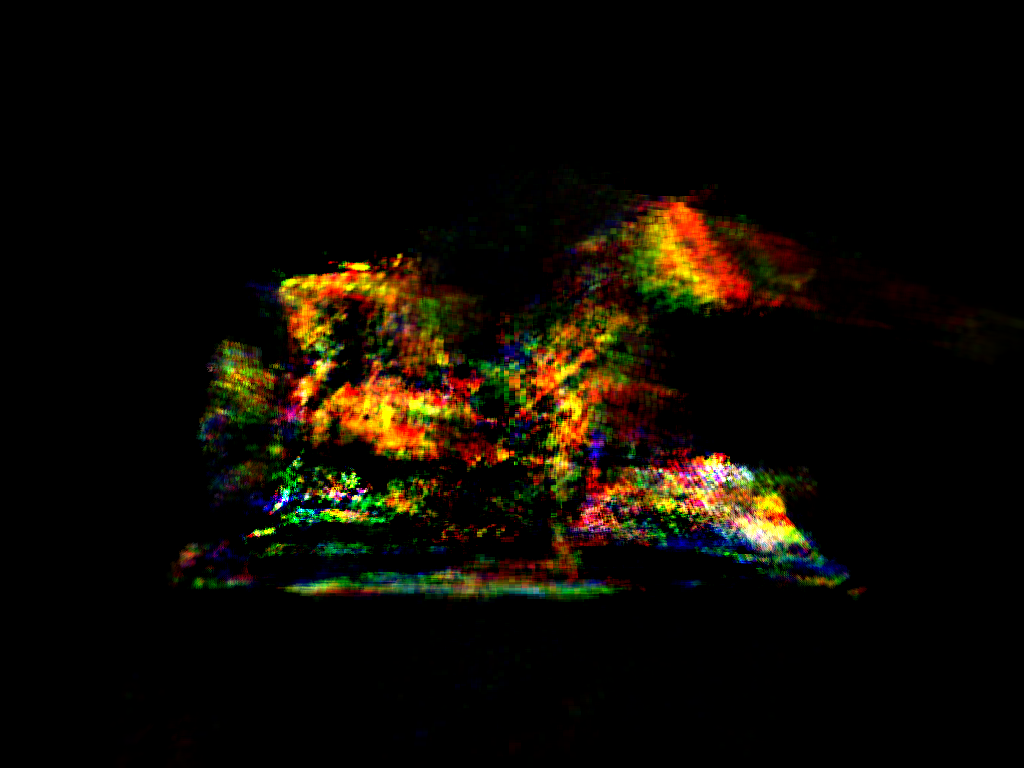
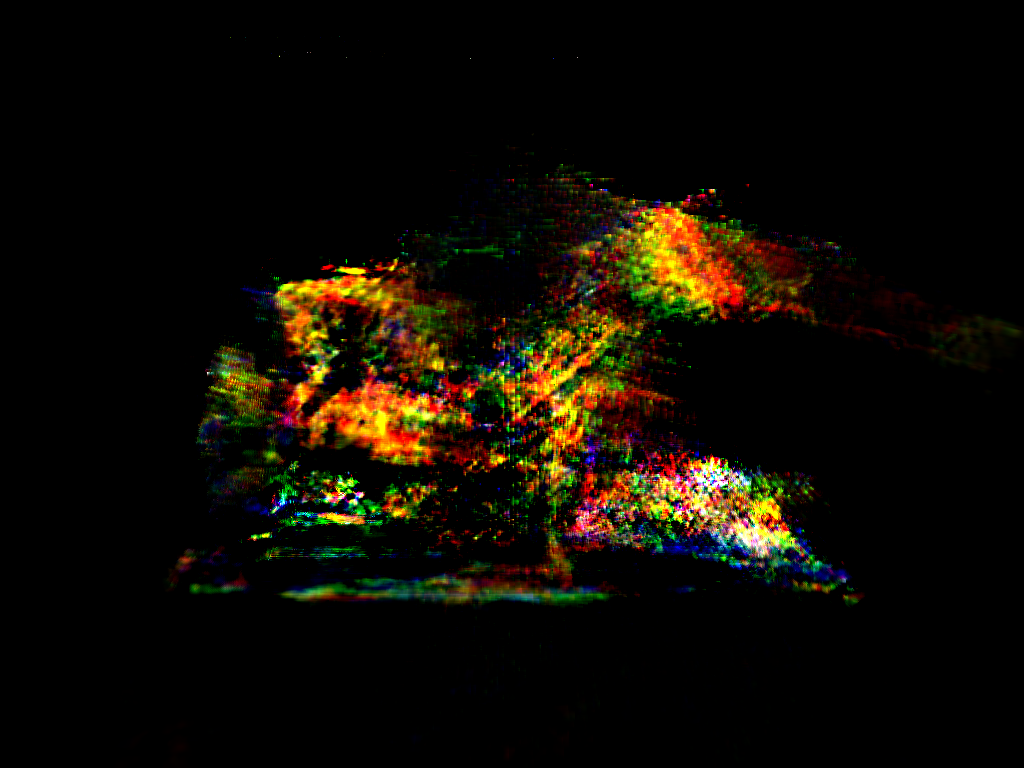
Trilinear interpolation

Changed region(s): [[0.1562, 0.2188, 0.875, 0.8125], [0.9688, 0.4062, 1.0, 0.4375], [0.9062, 0.4062, 0.9375, 0.4375]]

diff --git a/source/grid.cpp b/source/grid.cpp
@@ -10,68 +10,8 @@
 
 using namespace LiteMath;
 
-// https://github.com/sarafridov/plenoxels/blob/main/sh.py
-/*
-static float3 evalsh(float3 sh[constants::shsize], float3 normal) {
-    static float C0 = 0.28209479177387814;
-    static float C1 = 0.4886025119029199;
-    static float C2[5] = {
-        1.0925484305920792,
-        -1.0925484305920792,
-        0.31539156525252005,
-        -1.0925484305920792,
-        0.5462742152960396
-    };
-
-    float x = normal.x;
-    float y = normal.y;
-    float z = normal.z;
-
-    float3 result = C0 * sh[0];
-    result = (result -
-            C1 * y * sh[1] +
-            C1 * z * sh[2] -
-            C1 * x * sh[3]);
-
-    float xx = x * x, yy = y * y, zz = z * z;
-    float xy = x * y, yz = y * z, xz = x * z;
-    result = (result +
-            C2[0] * xy * sh[4] +
-            C2[1] * yz * sh[5] +
-            C2[2] * (2.0 * zz - xx - yy) * sh[6] +
-            C2[3] * xz * sh[7] +
-            C2[4] * (xx - yy) * sh[8]);
-
-    return max(result, float3(0.0f));
-}*/
-
-/*
-// https://github.com/nicknikolov/glsl-sh/blob/master/index.glsl
-static float evalsh(float sh[constants::shsize], float3 normal) {
-    float x = normal.x;
-    float y = normal.y;
-    float z = normal.z;
-
-    float result = (
-        sh[0] +
-
-        sh[1] * x +
-        sh[2] * y +
-        sh[3] * z +
-
-        sh[4] * z * x +
-        sh[5] * y * z +
-        sh[6] * y * x +
-        sh[7] * (3.0 * z * z - 1.0) +
-        sh[8] * (x*x - y*y)
-    );
-
-    return max(result, 0.0f);
-}
-*/
-
 // From Mitsuba 3
-static void evalsh2(const float3 &d, float *out) {
+static void shcoeffs(const float3 &d, float *out) {
     float x = d.x, y = d.y, z = d.z, z2 = z * z;
     float c0, c1, s0, s1, tmp_a, tmp_b, tmp_c;
 
@@ -95,13 +35,13 @@ static void evalsh2(const float3 &d, float *out) {
     out[4] = tmp_c * s1;
 }
 
-static float evalsh(float* sh, float3 rayDir) {
-    float sh_coeffs[constants::shsize];
-    evalsh2(rayDir, sh_coeffs);
+static float evalsh(float* sh, float3 normal) {
+    float coeffs[constants::shsize];
+    shcoeffs(normal, coeffs);
 
     float sum = 0.0f;
     for (int i = 0; i < constants::shsize; i++)
-    sum += sh[i] * sh_coeffs[i];
+        sum += sh[i] * coeffs[i];
 
     return sum;
 }
@@ -136,7 +76,41 @@ float2 Grid::intersection(float3 position, float3 ray) {
 // Returns color and density
 float4 Grid::evaluate(float3 position, float3 ray) {
     int3 coord = this->coord(position);
-    Cell cell = this->get(coord);
+    int3 xoff = int3(1, 0, 0);
+    int3 yoff = int3(0, 1, 0);
+    int3 zoff = int3(0, 0, 1);
+
+    float3 p0 = this->position(coord);
+    float3 p1 = this->position(coord + xoff + yoff + zoff);
+    float3 sample = (position - p0) / (p1 - p0);
+
+    float4 c000 = this->get(coord, ray);
+    float4 c001 = this->get(coord + zoff, ray);
+    float4 c010 = this->get(coord + yoff, ray);
+    float4 c011 = this->get(coord + yoff + zoff, ray);
+    float4 c100 = this->get(coord + xoff, ray);
+    float4 c101 = this->get(coord + xoff + zoff, ray);
+    float4 c110 = this->get(coord + xoff + yoff, ray);
+    float4 c111 = this->get(coord + xoff + yoff + zoff, ray);
+
+    float4 c00 = c000 * (1 - sample.x) + c100 * sample.x;
+    float4 c01 = c001 * (1 - sample.x) + c101 * sample.x;
+    float4 c10 = c010 * (1 - sample.x) + c110 * sample.x;
+    float4 c11 = c011 * (1 - sample.x) + c111 * sample.x;
+
+    float4 c0 = c00 * (1 - sample.y) + c10 * sample.y;
+    float4 c1 = c01 * (1 - sample.y) + c11 * sample.y;
+
+    float4 c = c0 * (1 - sample.z) + c1 * sample.z;
+    return c;
+}
+
+float4 Grid::get(int3 coord, float3 ray) {
+    int index = constants::grid * constants::grid * coord.z + constants::grid * coord.y + coord.x;
+    if (index > constants::total)
+        return float4(0.0f);
+
+    Cell cell = this->cells[index];
 
     float r = evalsh(cell.shr, ray);
     float g = evalsh(cell.shg, ray);
@@ -146,9 +120,9 @@ float4 Grid::evaluate(float3 position, float3 ray) {
     return to_float4(color, cell.density);
 }
 
-Cell Grid::get(int3 coord) {
-    int index = constants::grid * constants::grid * coord.z + constants::grid * coord.y + coord.x;
-    return this->cells[index];
+float3 Grid::position(int3 coord) {
+    float3 sample = float3(coord) / constants::grid;
+    return minPoint + (maxPoint - minPoint) * sample;
 }
 
 int3 Grid::coord(float3 position) {

diff --git a/source/main.cpp b/source/main.cpp
@@ -27,7 +27,7 @@ int main() {
     std::chrono::duration<double> duration;
 
     start = std::chrono::system_clock::now();
-    render::CPU(CPUimage);
+    //render::CPU(CPUimage);
     end = std::chrono::system_clock::now();
     duration = end - start;
     std::cout << "Render with CPU (1 thread):\t" << duration.count() << "s" << std::endl;

diff --git a/source/include/grid.h b/source/include/grid.h
@@ -16,7 +16,8 @@ struct Grid {
 
     float2 intersection(float3 position, float3 ray);
     float4 evaluate(float3 position, float3 ray);
-    Cell get(int3 coord);
+    float4 get(int3 coord, float3 ray);
+    float3 position(int3 coord);
     static int3 coord(float3 position);
     void load(const char *path);
 };
